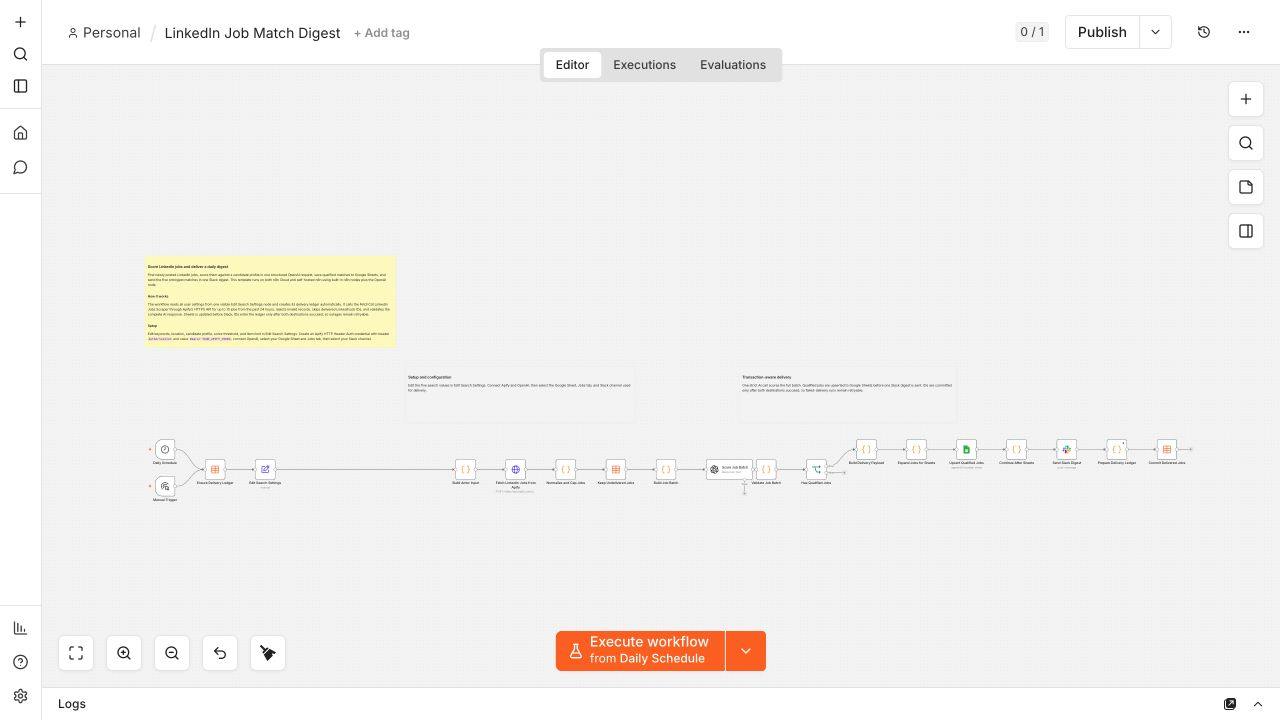
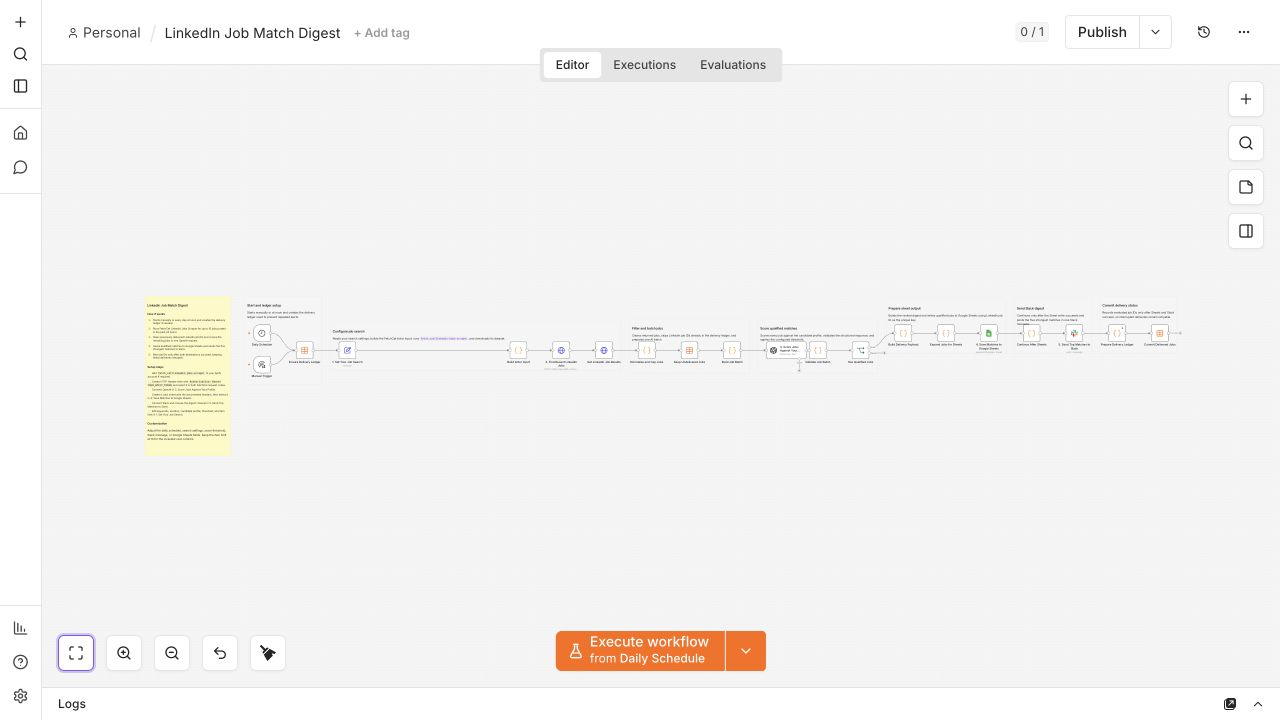
fix: align LinkedIn stickies with n8n guidelines

diff --git a/workflows/linkedin-job-match-digest/README.md b/workflows/linkedin-job-match-digest/README.md
@@ -9,6 +9,9 @@ matches are sent in one Slack digest.
 The workflow has a manual trigger and a daily noon trigger. It is inactive on
 import and works on n8n Cloud and self-hosted n8n.
 
+The canvas follows n8n's template annotation standard: one yellow overview
+with setup checkboxes and seven white notes surrounding the logical node groups.
+
 ## Setup
 
 1. Import `workflow.json`.